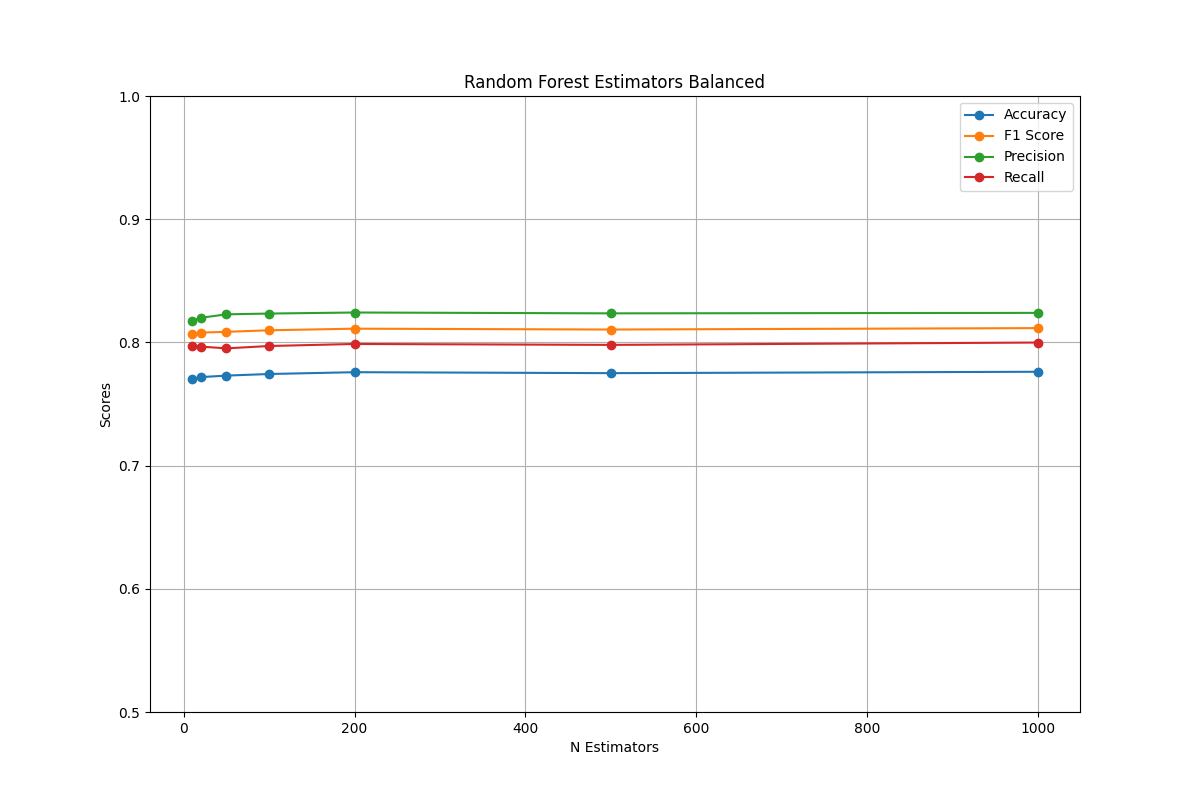
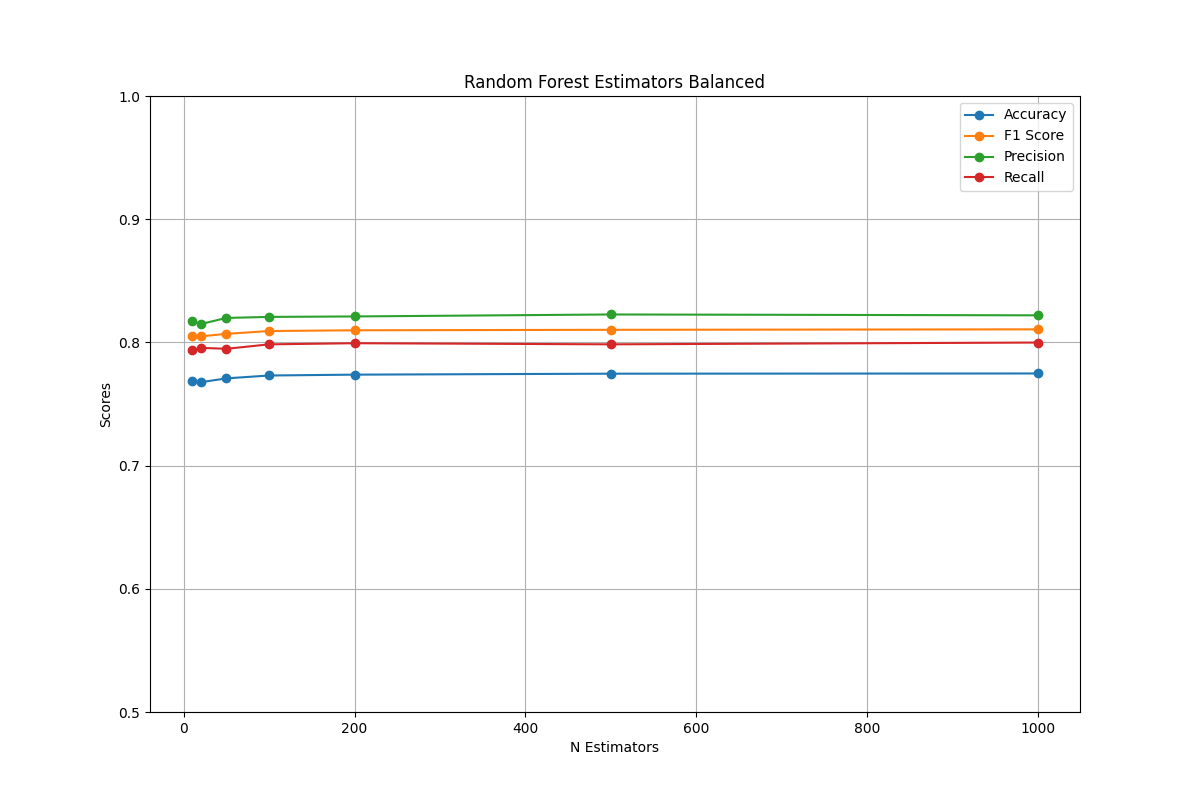
Learning curve e not balanced

Changed region(s): [[0.1542, 0.375, 0.8633, 0.4688], [0.1542, 0.4688, 0.2158, 0.5]]

diff --git a/supervised.py b/supervised.py
@@ -1,5 +1,5 @@
 import pandas as pd
-from sklearn.model_selection import train_test_split, KFold, cross_validate
+from sklearn.model_selection import train_test_split, KFold, cross_validate, learning_curve
 from sklearn.preprocessing import StandardScaler, LabelEncoder
 from sklearn.ensemble import RandomForestClassifier, GradientBoostingClassifier
 from sklearn.linear_model import LogisticRegression
@@ -120,7 +120,9 @@ def training_randomforest_on_maxdepth(X_train, y_train, X_test, y_test, best_par
         precision_scores.append(results['test_precision'].mean())
         recall_scores.append(results['test_recall'].mean())
 
-    plot_scores(max_depth_values, accuracy_scores, f1_scores, precision_scores, recall_scores, 'Max Depth', 'Random Forest Depth Balanced')
+    plot_scores(max_depth_values, accuracy_scores, f1_scores, precision_scores, recall_scores, 'Max Depth', 'Random Forest Depth Not Balanced')
+    plot_learning_curve(X_train, y_train, pipe, 'Random Forest Depth Learning Curve Not Balanced')
+    
 
     #convertire in numpy array per usare argmax
     accuracy_scores = np.array(accuracy_scores)
@@ -136,15 +138,16 @@ def training_randomforest_on_maxdepth(X_train, y_train, X_test, y_test, best_par
     pipe.fit(X_train, y_train)
     y_pred = pipe.predict(X_test)
 
-    plot_confusion_matrix(y_test, y_pred, 'RandomForestMaxDepth')
+    plot_confusion_matrix(y_test, y_pred, 'RandomForestMaxDepthNotBalanced')
 
     accuracy = accuracy_score(y_test, y_pred)
     f1 = f1_score(y_test, y_pred)
     precision = precision_score(y_test, y_pred)
     recall = recall_score(y_test, y_pred)
 
+
     #salvataggio su file
-    with open('RandomForestBestDepthBalanced.txt', 'w') as f:
+    with open('RandomForestBestDepthNotBalanced.txt', 'w') as f:
         f.write(f"Accuracy: {accuracy}\n")
         f.write(f"F1 Score: {f1}\n")
         f.write(f"Precision: {precision}\n")
@@ -180,7 +183,8 @@ def training_randomforest_on_n_estimators(X_train, y_train, X_test, y_test, best
             precision_scores.append(results['test_precision'].mean())
             recall_scores.append(results['test_recall'].mean())
 
-        plot_scores(n_estimators_values, accuracy_scores, f1_scores, precision_scores, recall_scores, 'N Estimators', 'Random Forest Estimators Balanced')
+        plot_scores(n_estimators_values, accuracy_scores, f1_scores, precision_scores, recall_scores, 'N Estimators', 'Random Forest Estimators Not Balanced')
+        plot_learning_curve(X_train, y_train, pipe, 'Random Forest Estimators Learning Curve Not Balanced')
 
         accuracy_scores = np.array(accuracy_scores)
         best_accuracy = accuracy_scores.argmax()
@@ -196,7 +200,7 @@ def training_randomforest_on_n_estimators(X_train, y_train, X_test, y_test, best
         pipe.fit(X_train, y_train)
         y_pred = pipe.predict(X_test)
 
-        plot_confusion_matrix(y_test, y_pred, 'RandomForestEstimators')
+        plot_confusion_matrix(y_test, y_pred, 'RandomForestEstimatorsNotBalanced')
 
         accuracy = accuracy_score(y_test, y_pred)
         f1 = f1_score(y_test, y_pred)
@@ -204,7 +208,7 @@ def training_randomforest_on_n_estimators(X_train, y_train, X_test, y_test, best
         recall = recall_score(y_test, y_pred)
 
         #salvataggio su file
-        with open('RandomForestBestEstimatorsBalanced.txt', 'w') as f:
+        with open('RandomForestBestEstimatorsNotBalanced.txt', 'w') as f:
             f.write(f"Accuracy: {accuracy}\n")
             f.write(f"F1 Score: {f1}\n")
             f.write(f"Precision: {precision}\n")
@@ -241,8 +245,8 @@ def training_DecisionTree(X_train, y_train, X_test, y_test, best_params):
             precision_scores.append(results['test_precision'].mean())
             recall_scores.append(results['test_recall'].mean())
 
-        plot_scores(max_depth_values, accuracy_scores, f1_scores, precision_scores, recall_scores, 'Max Depth', 'Decision Tree Balanced')
-        
+        plot_scores(max_depth_values, accuracy_scores, f1_scores, precision_scores, recall_scores, 'Max Depth', 'Decision Tree Not Balanced')
+        plot_learning_curve(X_train, y_train, pipe, 'Decision Tree Learning Curve Not Balanced')
 
         accuracy_scores = np.array(accuracy_scores)
         best_accuracy = accuracy_scores.argmax()
@@ -258,7 +262,8 @@ def training_DecisionTree(X_train, y_train, X_test, y_test, best_params):
         pipe.fit(X_train, y_train)
         y_pred = pipe.predict(X_test)
 
-        plot_confusion_matrix(y_test, y_pred, 'DecisionTree')
+        
+        plot_confusion_matrix(y_test, y_pred, 'DecisionTreeNotBalanced')
 
 
         accuracy = accuracy_score(y_test, y_pred)
@@ -267,7 +272,7 @@ def training_DecisionTree(X_train, y_train, X_test, y_test, best_params):
         recall = recall_score(y_test, y_pred)
 
         #salvataggio su file
-        with open('DecisionTreeBestDepthBalanced.txt', 'w') as f:
+        with open('DecisionTreeBestDepthNotBalanced.txt', 'w') as f:
             f.write(f"Accuracy: {accuracy}\n")
             f.write(f"F1 Score: {f1}\n")
             f.write(f"Precision: {precision}\n")
@@ -292,10 +297,10 @@ def training_LogisticRegression(X_train, y_train, X_test, y_test, best_params):
     recall = recall_score(y_test, y_pred)
 
     #matrice di confusione
-    plot_confusion_matrix(y_test, y_pred, 'LogisticRegression')
+    plot_confusion_matrix(y_test, y_pred, 'LogisticRegressionNotBalanced')
 
     #salvataggio su file
-    with open('LogisticRegressionBalanced.txt', 'w') as f:
+    with open('LogisticRegressionNotBalanced.txt', 'w') as f:
         f.write(f"Accuracy: {accuracy}\n")
         f.write(f"F1 Score: {f1}\n")
         f.write(f"Precision: {precision}\n")
@@ -332,7 +337,8 @@ def training_GradientBoosting_on_maxdepth(X_train, y_train, X_test, y_test, best
                 precision_scores.append(results['test_precision'].mean())
                 recall_scores.append(results['test_recall'].mean())
 
-            plot_scores(max_depth_values, accuracy_scores, f1_scores, precision_scores, recall_scores, 'Max Depth', 'Gradient Boosting Depth Balanced')
+            plot_scores(max_depth_values, accuracy_scores, f1_scores, precision_scores, recall_scores, 'Max Depth', 'Gradient Boosting Depth Not Balanced')
+            plot_learning_curve(X_train, y_train, pipe, 'Gradient Boosting Depth Learning Curve Not Balanced')
 
             accuracy_scores = np.array(accuracy_scores)
             best_acc = accuracy_scores.argmax()
@@ -350,7 +356,7 @@ def training_GradientBoosting_on_maxdepth(X_train, y_train, X_test, y_test, best
 
             y_pred = pipe.predict(X_test)
 
-            plot_confusion_matrix(y_test, y_pred, 'GradientBoostingMaxDepth')
+            plot_confusion_matrix(y_test, y_pred, 'GradientBoostingMaxDepthNotBalanced')
 
             accuracy = accuracy_score(y_test, y_pred)
             f1 = f1_score(y_test, y_pred)
@@ -358,7 +364,7 @@ def training_GradientBoosting_on_maxdepth(X_train, y_train, X_test, y_test, best
             recall = recall_score(y_test, y_pred)
 
             #salvataggio su file
-            with open('GradientBoostingBestDepthBalanced.txt', 'w') as f:
+            with open('GradientBoostingBestDepthNotBalanced.txt', 'w') as f:
                 f.write(f"Accuracy: {accuracy}\n")
                 f.write(f"F1 Score: {f1}\n")
                 f.write(f"Precision: {precision}\n")
@@ -398,7 +404,8 @@ def training_GradientBoosting_on_n_estimators(X_train, y_train, X_test, y_test, 
                 precision_scores.append(results['test_precision'].mean())
                 recall_scores.append(results['test_recall'].mean())
 
-            plot_scores(n_estimators_values, accuracy_scores, f1_scores, precision_scores, recall_scores, 'N Estimators', 'Gradient Boosting Estimators Balanced')
+            plot_scores(n_estimators_values, accuracy_scores, f1_scores, precision_scores, recall_scores, 'N Estimators', 'Gradient Boosting Estimators Not Balanced')
+            plot_learning_curve(X_train, y_train, pipe, 'Gradient Boosting Estimators Learning Curve Not Balanced')
         
             accuracy_scores = np.array(accuracy_scores)
             best_acc = accuracy_scores.argmax()
@@ -416,7 +423,7 @@ def training_GradientBoosting_on_n_estimators(X_train, y_train, X_test, y_test, 
 
             y_pred = pipe.predict(X_test)
 
-            plot_confusion_matrix(y_test, y_pred, 'GradientBoostingEstimators')
+            plot_confusion_matrix(y_test, y_pred, 'GradientBoostingEstimatorsNotBalanced')
 
             accuracy = accuracy_score(y_test, y_pred)
             f1 = f1_score(y_test, y_pred)
@@ -424,7 +431,7 @@ def training_GradientBoosting_on_n_estimators(X_train, y_train, X_test, y_test, 
             recall = recall_score(y_test, y_pred)
 
             #salvataggio su file
-            with open('GradientBoostingBestEstimatorsBalanced.txt', 'w') as f:
+            with open('GradientBoostingBestEstimatorsNotBalanced.txt', 'w') as f:
                 f.write(f"Accuracy: {accuracy}\n")
                 f.write(f"F1 Score: {f1}\n")
                 f.write(f"Precision: {precision}\n")
@@ -445,6 +452,26 @@ def plot_scores(x_values, accuracy_scores, f1_scores, precision_scores, recall_s
     plt.grid(True)
     plt.savefig(f'{title}.png')
 
+def plot_learning_curve(X_train, y_train, model, title):
+    train_sizes, train_scores, test_scores = learning_curve(model, X_train, y_train, cv=5, n_jobs=-1, train_sizes=np.linspace(.1, 1.0, 10))
+    train_scores_mean = np.mean(train_scores, axis=1)
+    train_scores_std = np.std(train_scores, axis=1)
+    test_scores_mean = np.mean(test_scores, axis=1)
+    test_scores_std = np.std(test_scores, axis=1)
+
+    plt.figure(figsize=(10, 7))
+    plt.grid()
+    plt.plot(train_sizes, train_scores_mean, 'o-', color="r",
+             label="Training score")
+    plt.plot(train_sizes, test_scores_mean, 'o-', color="g",
+             label="Cross-validation score")
+
+    plt.xlabel("Training examples")
+    plt.ylabel("Score")
+    plt.legend(loc="best")
+    plt.title(title)
+    plt.savefig(f'{title}.png')
+
 def plot_confusion_matrix(y_test, y_pred, model_name):
       #matrice di confusione
     cm = confusion_matrix(y_test, y_pred)
@@ -462,7 +489,7 @@ def plot_confusion_matrix(y_test, y_pred, model_name):
 
 
 def main():
-    X_train, y_train, X_test, y_test = preprocess_data(balanced=True)
+    X_train, y_train, X_test, y_test = preprocess_data(balanced=False)
     
     # Search and train the best hyperparameters for each model
 
